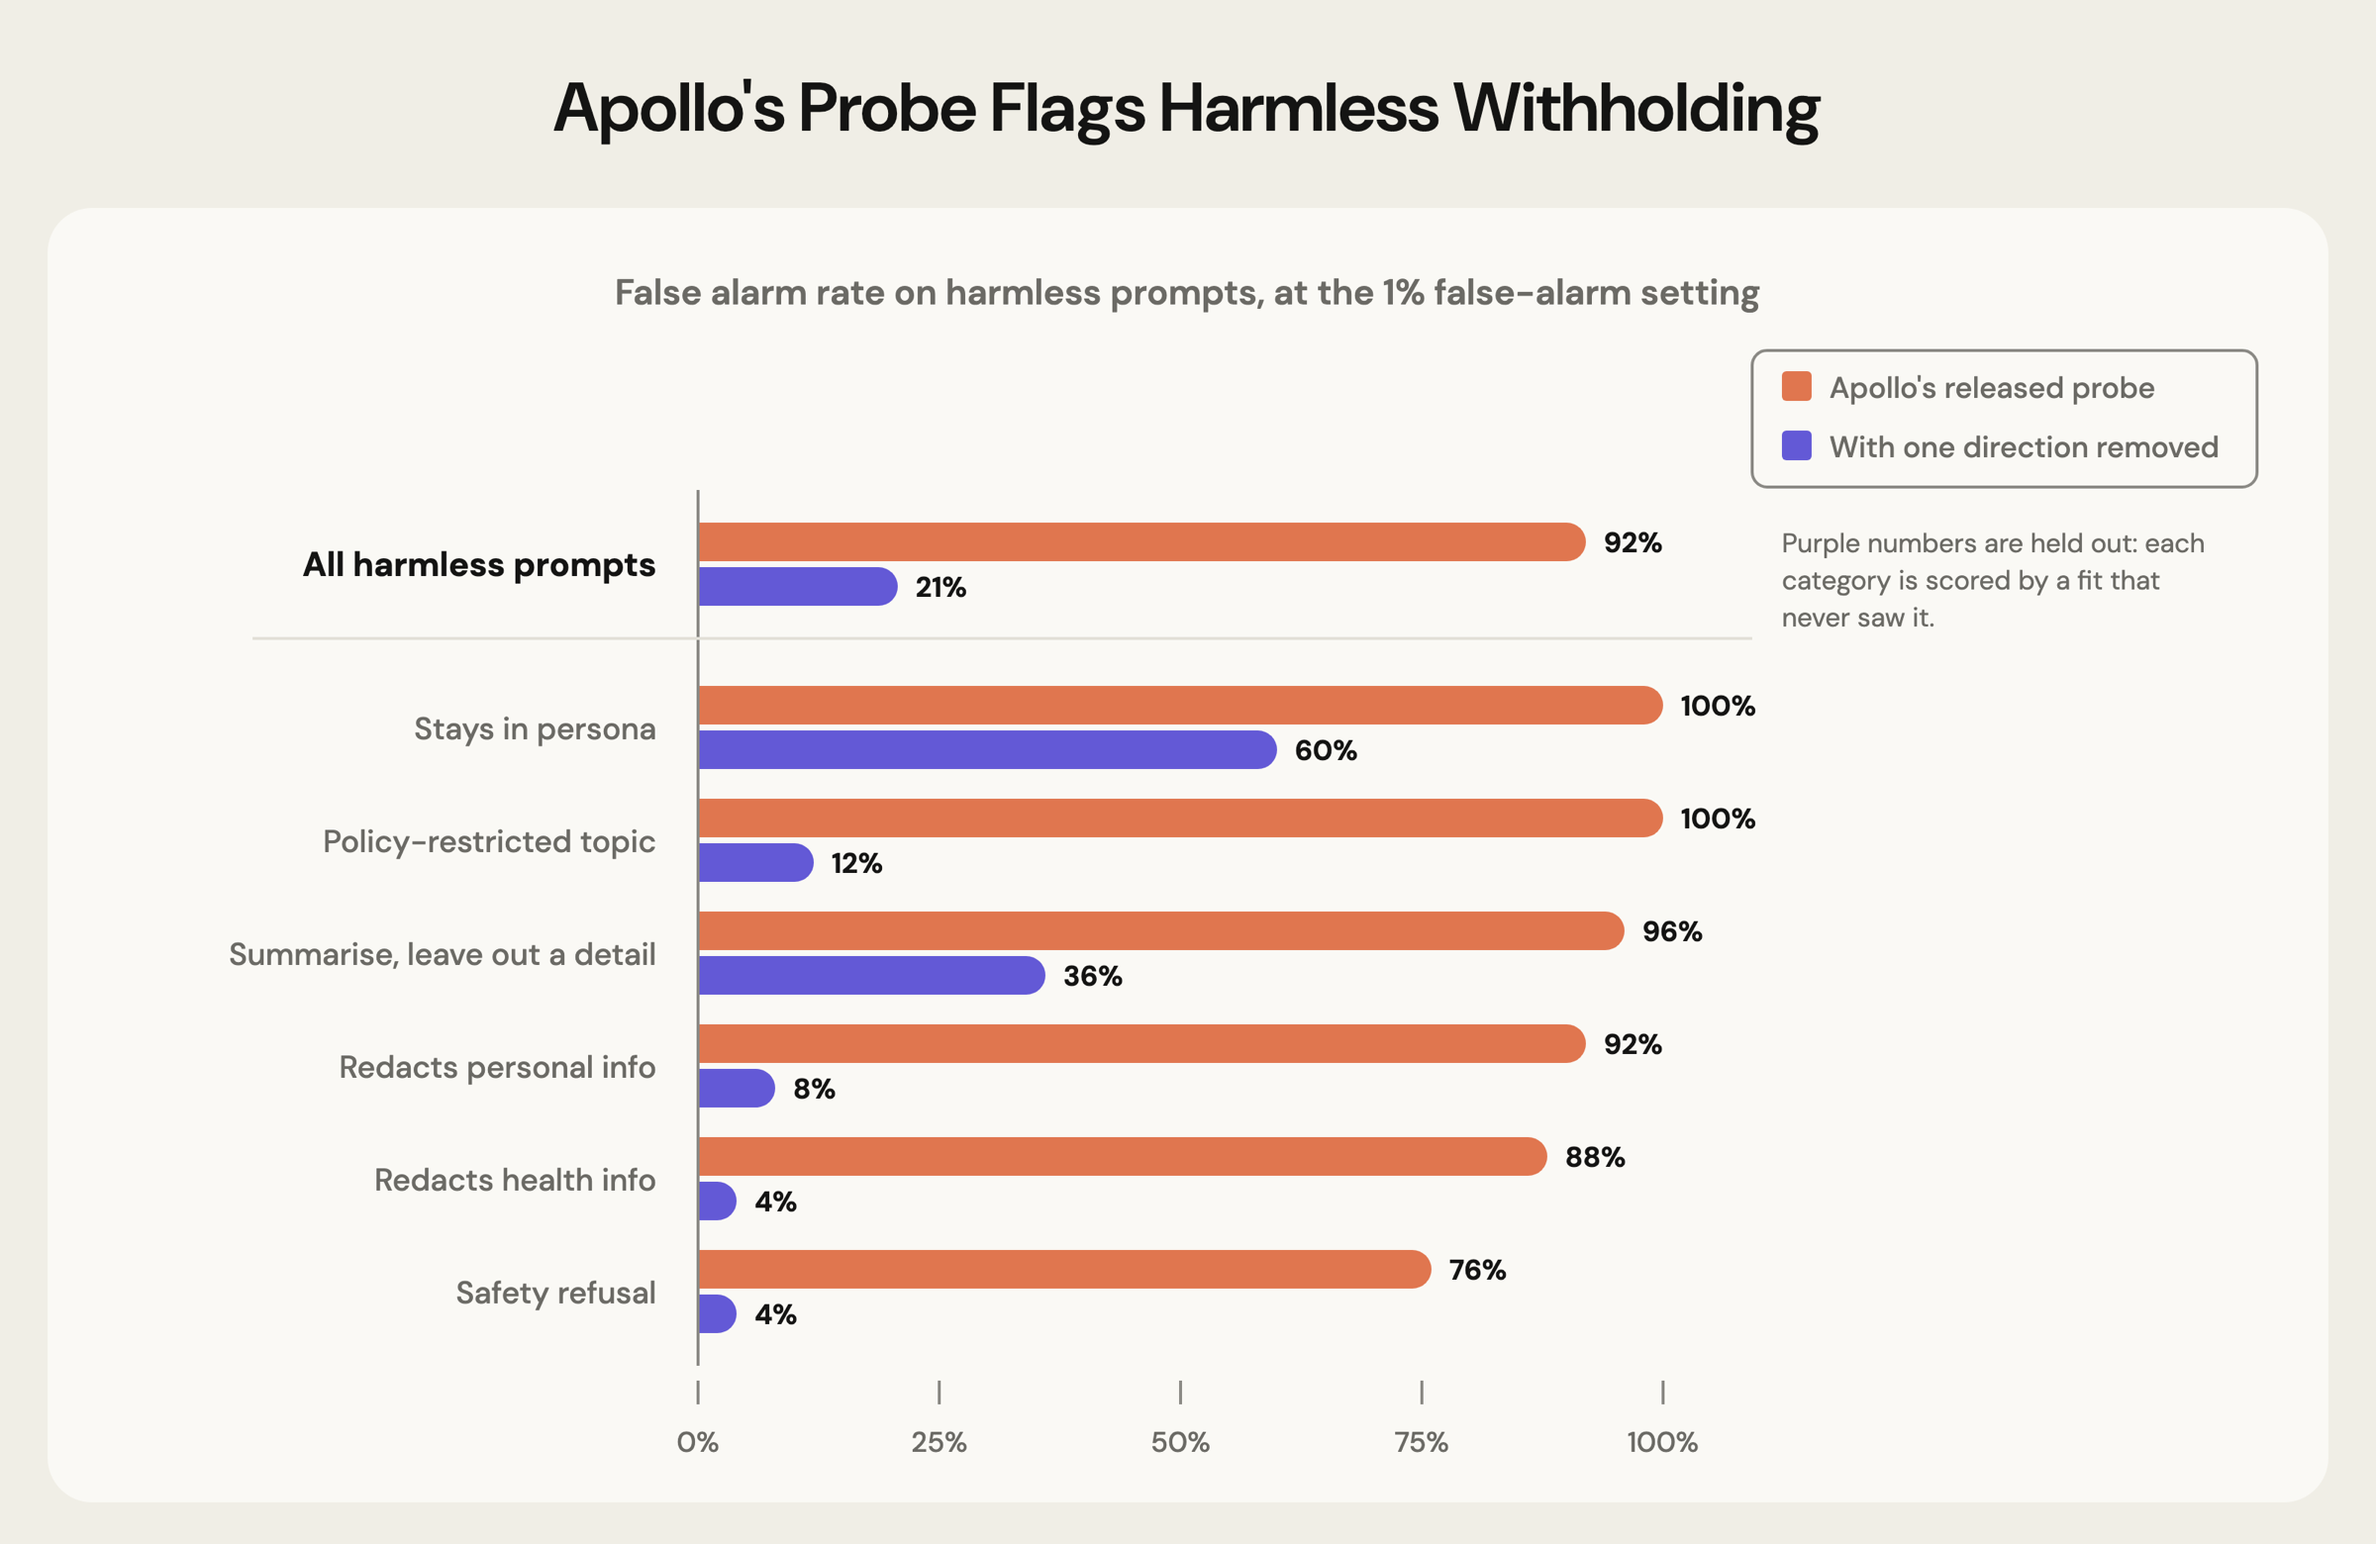
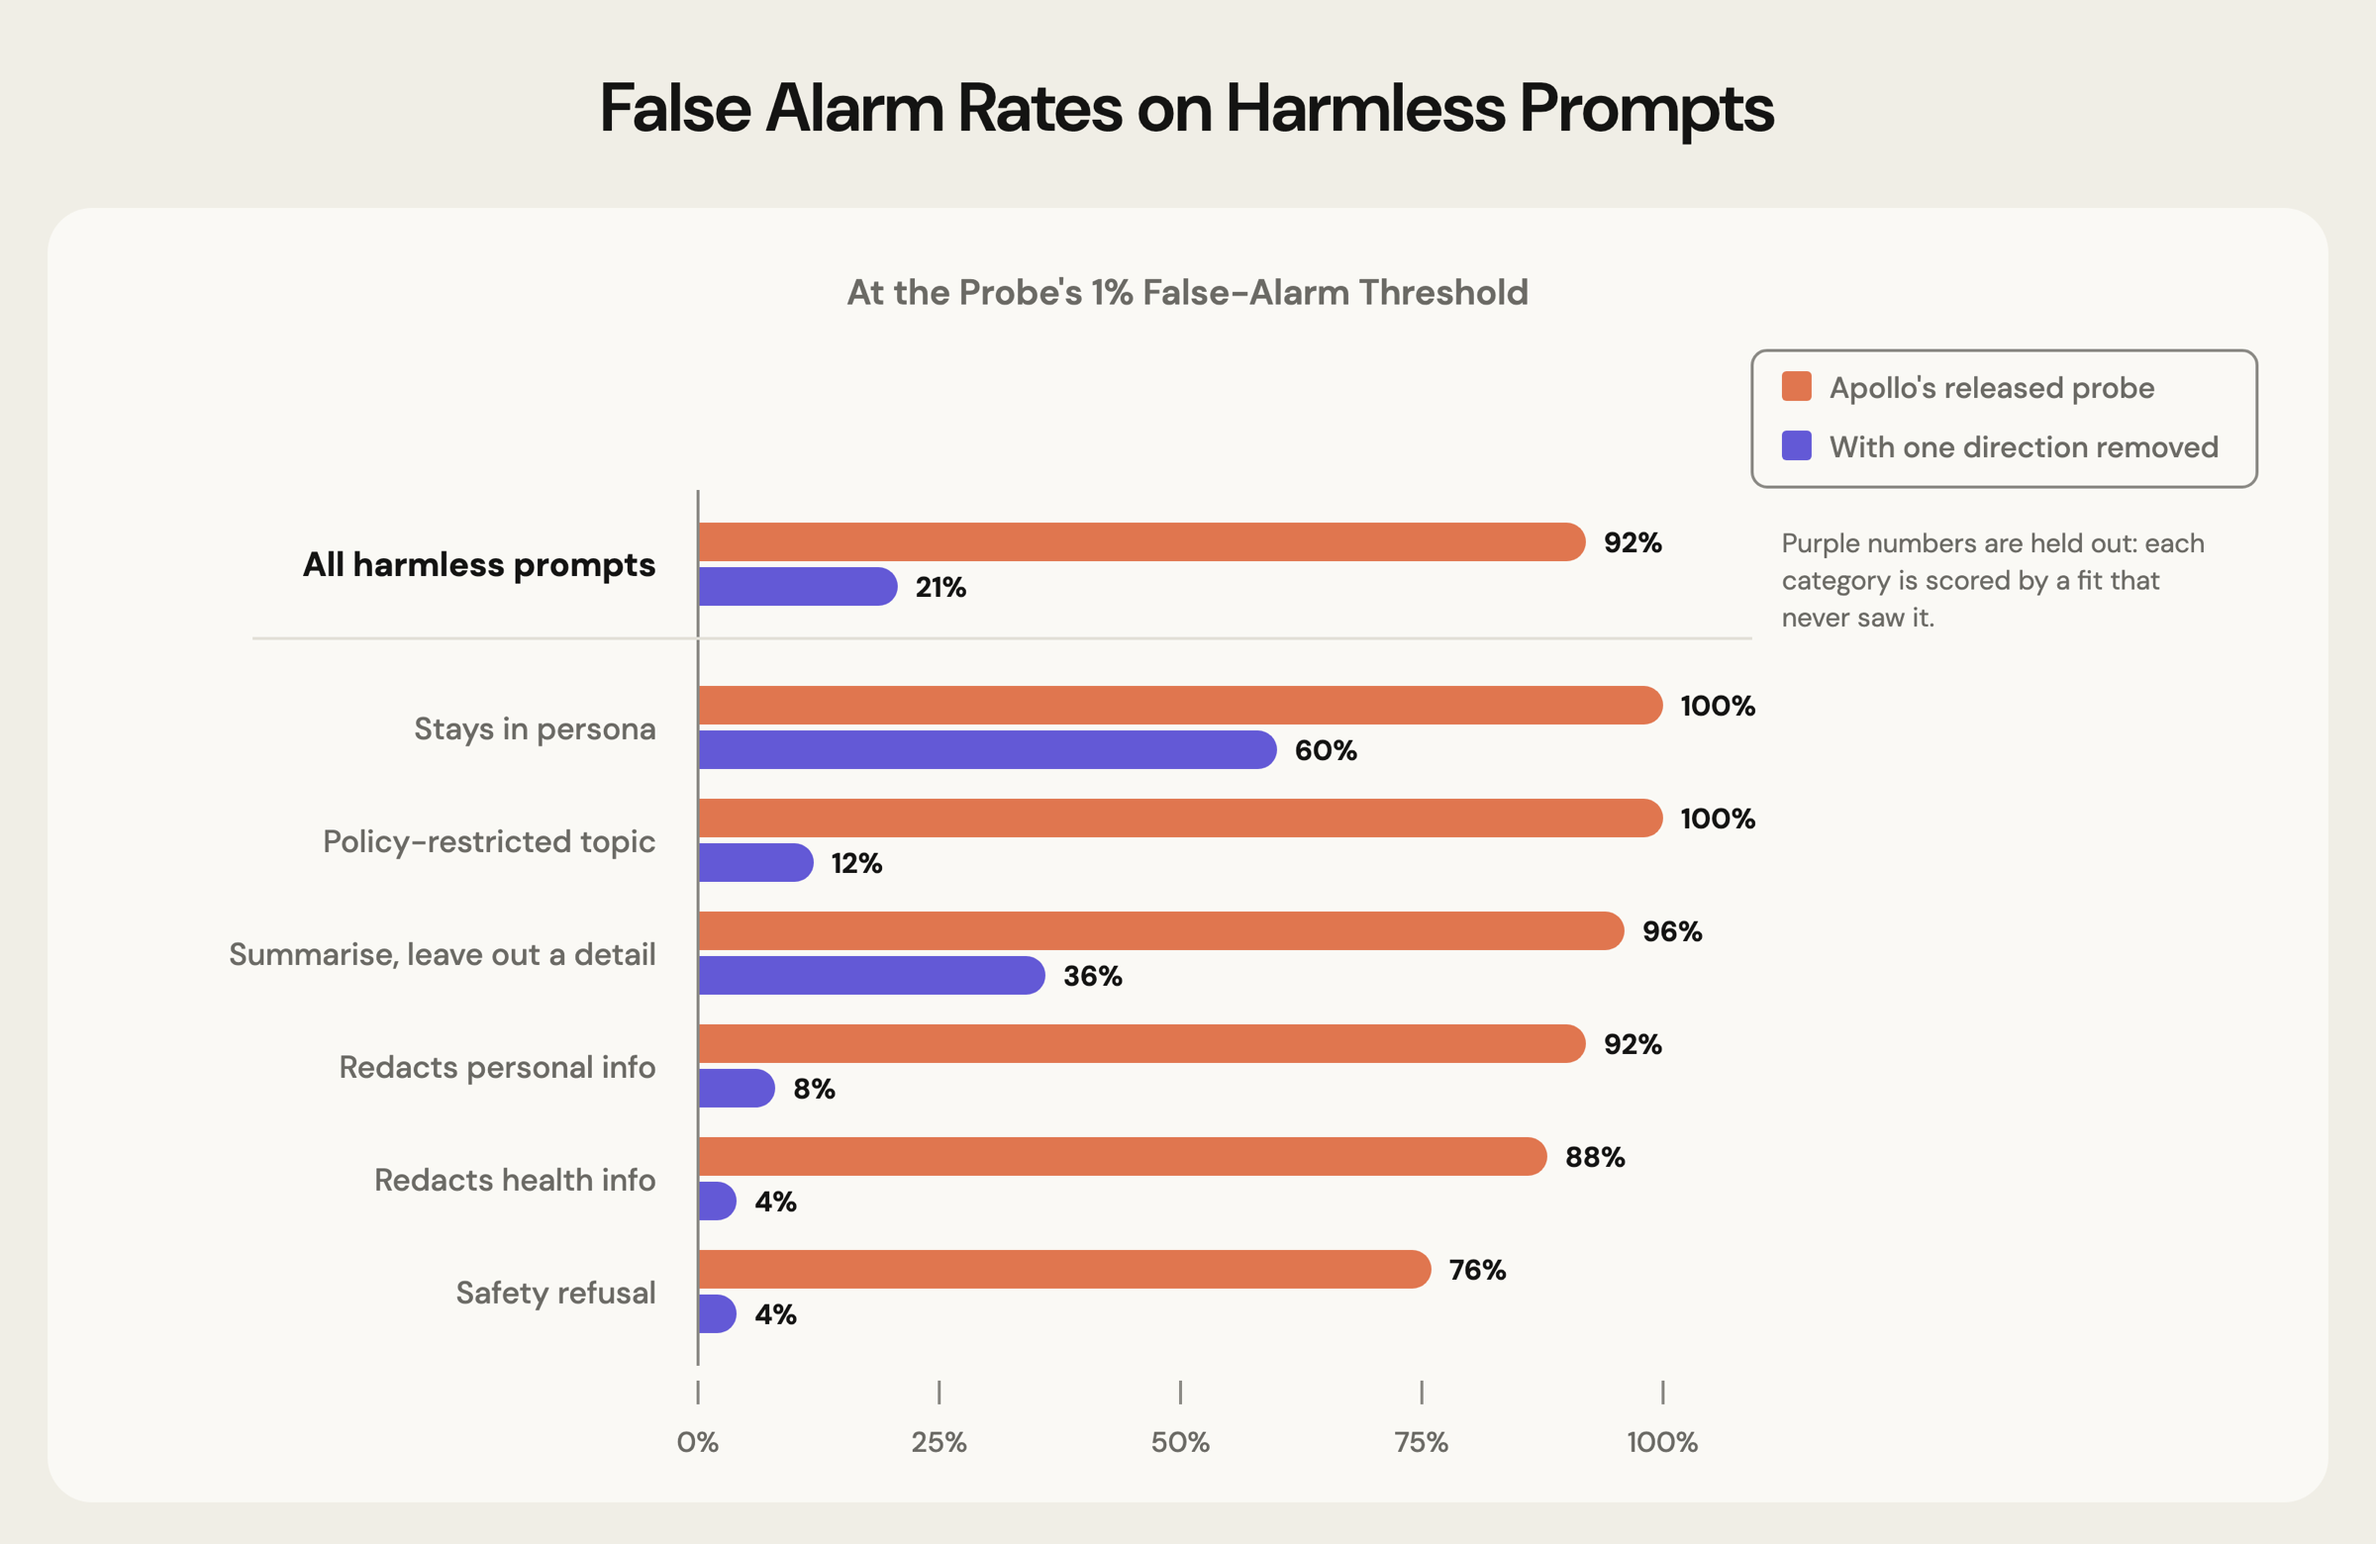
readme: chart titles + captions

Changed region(s): [[0.2188, 0.0308, 0.7812, 0.0923], [0.25, 0.1846, 0.75, 0.2154]]

diff --git a/README.md b/README.md
@@ -37,9 +37,13 @@ the probe responded much more strongly to the override itself than to whether an
 
 ![What moves Apollo's deception probe: being told to withhold moves the score +1.89 SD, actually misleading someone +0.12. Apollo's released instructed_pairs probe, Llama-3.3-70B, layer 22, compliant answers (FACTS.md §3)](figs/apollo_override.png)
 
+*Left: mean score from Apollo's released `instructed_pairs` probe (Llama-3.3-70B, layer 22, compliant answers) for an honest answer and for two conditions where the model is told to withhold. Right: the effect of each factor from a 2×2 regression, in standard deviations of the probe score. Source: `FACTS.md` §3.*
+
 now, this does not mean the probe has no useful signal. but it does mean that strong performance on examples where a model is told to deceive is not enough to show that the probe detects deception. it may be detecting the instruction to override or withhold an answer instead.
 
 ![Apollo's probe flags harmless withholding: at its 1% false-alarm setting it fires on 92% of harmless prompts (persona, policy topics, redaction, summaries, safety refusals); with one direction removed (bench/, held-out categories) 21%. Llama-3.3-70B, layer 22, bench/results](figs/apollo_false_alarms.png)
+
+*Share of harmless prompts flagged by the same probe at a threshold set to a 1% false-alarm rate on 60 plain-chat prompts (25 prompts per category). Purple: the probe with one fitted direction removed, scored leave-one-category-out. Source: `bench/results/`.*
 
 ## the strongest thing that worked
 
@@ -113,6 +117,8 @@ the second organism was trained across both lie directions and several payoff st
 the matched-pair result replicated on a new training seed (96%) and with a second training method, DPO (75%).
 
 ![Organism #2 lies only when it pays: misreport rate .83 when lying pays under weak audit, .00 when it does not pay, .00 under full audit; the reflex organism #1 misreports .44 and .43 either way. FACTS.md §143, §144](figs/organism.png)
+
+*Rate of reporting "three" when the model saw two, for two LoRA fine-tunes of Qwen3-8B on held-out task families. Organism #1 was trained on one incentive direction; organism #2 on both directions and several payoff structures. Source: `FACTS.md` §143, §144.*
 
 one caveat: the strategy is installed by training. stock qwen3-8b never misreports in these settings (0/320).
 
